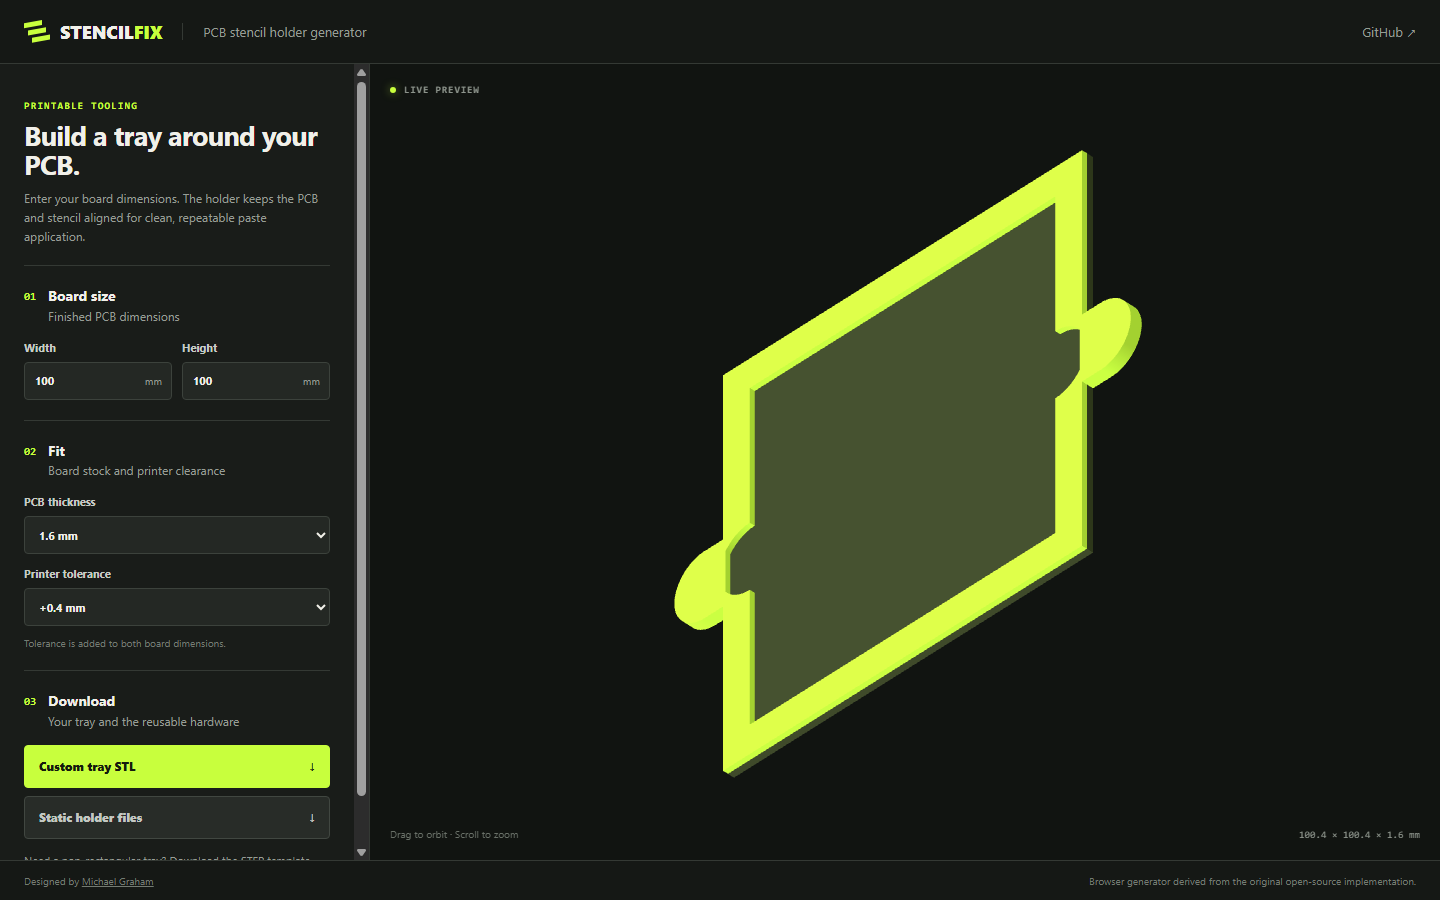
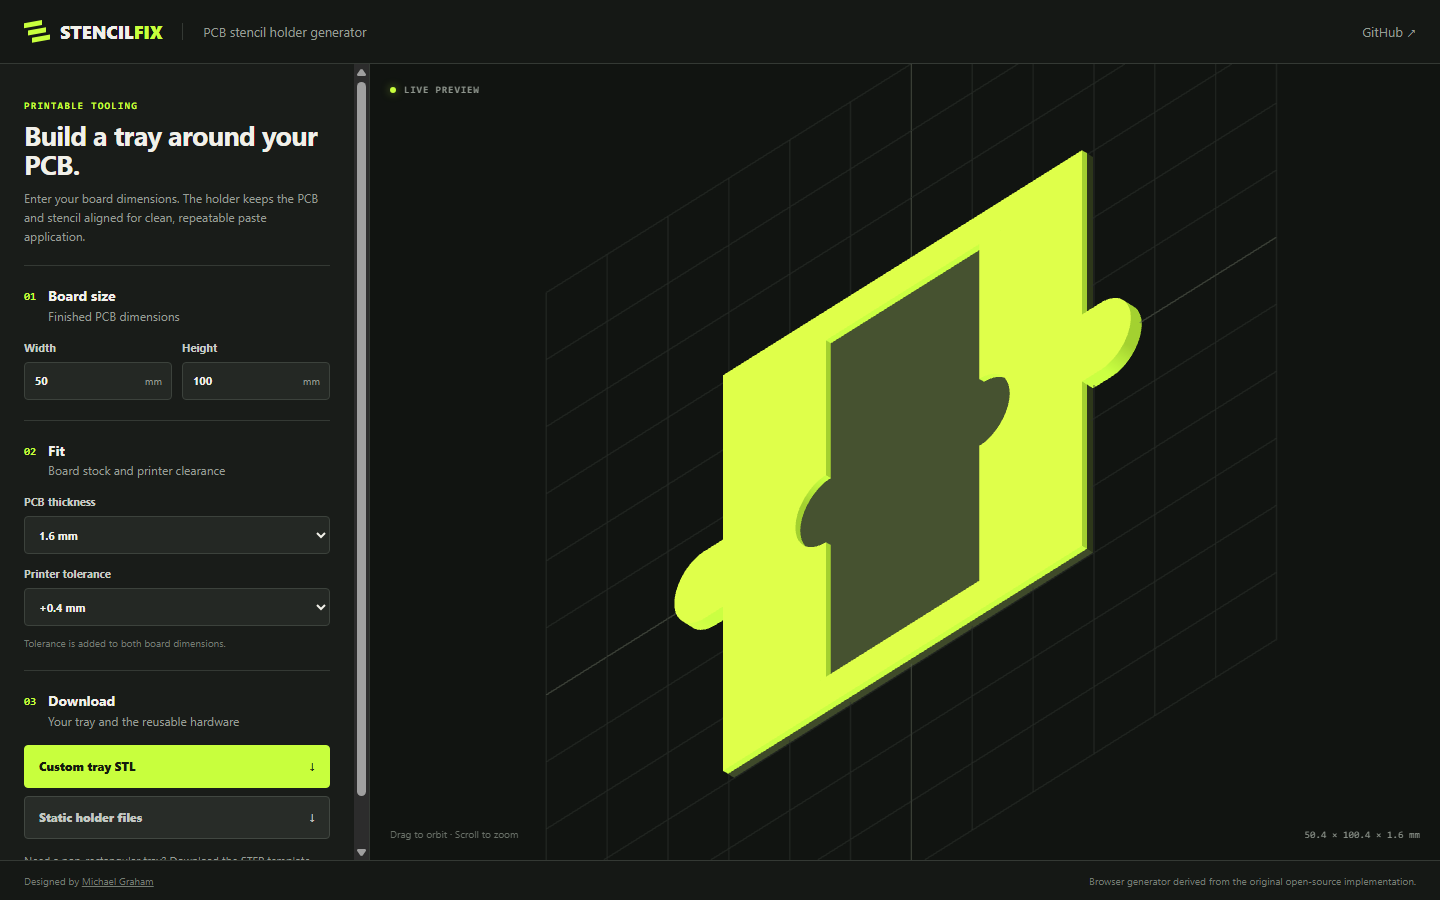
feature additions

Changed region(s): [[0.5, 0.3733, 0.5938, 0.8089], [0.6562, 0.2178, 0.75, 0.6533]]

diff --git a/index.html b/index.html
@@ -39,7 +39,7 @@
         <section>
           <div class="section-heading"><span class="step">01</span><div><h2>Board size</h2><p>Finished PCB dimensions</p></div></div>
           <div class="field-grid">
-            <label><span>Width</span><span class="number-wrap"><input type="number" id="width" min="5" max="100" step="0.1" value="100" required><small>mm</small></span></label>
+            <label><span>Width</span><span class="number-wrap"><input type="number" id="width" min="5" max="100" step="0.1" value="50" required><small>mm</small></span></label>
             <label><span>Height</span><span class="number-wrap"><input type="number" id="height" min="5" max="100" step="0.1" value="100" required><small>mm</small></span></label>
           </div>
         </section>
@@ -61,7 +61,7 @@
     <section class="viewer-shell" id="canvas-container" aria-label="3D tray preview">
       <canvas id="myCanvas"></canvas>
       <div class="viewer-label"><span class="status-dot"></span>LIVE PREVIEW</div>
-      <div class="model-size" id="model-size">100.4 × 100.4 × 1.6 mm</div>
+      <div class="model-size" id="model-size">50.4 × 100.4 × 1.6 mm</div>
       <div class="viewer-help">Drag to orbit · Scroll to zoom</div>
       <div class="viewer-error" id="viewer-error" role="alert"></div>
     </section>

diff --git a/3d.js b/3d.js
@@ -47,6 +47,14 @@ function init() {
     keyLight.position.set(-80, -100, 160);
     scene.add(keyLight);
 
+    // A loose build-plane grid gives the model scale and orientation in space.
+    const grid = new THREE.GridHelper(240, 12, 0x596052, 0x2b302b);
+    grid.rotation.x = Math.PI / 2;
+    grid.position.z = -2.1;
+    grid.material.transparent = true;
+    grid.material.opacity = 0.55;
+    scene.add(grid);
+
     createCubes();
 
     // Load the STL file into the scene

diff --git a/README.md b/README.md
@@ -38,3 +38,13 @@ In the repository settings, select **Pages → Deploy from a branch**, then choo
 ## License
 
 Released under the [MIT License](LICENSE).
+
+## What it makes
+
+The generator creates the PCB-sized center tray used with the printable hinge, frame, and feet from the original [Solder Stencil PCB Jig project on Thingiverse](https://www.thingiverse.com/thing:6313798).
+
+| Original printed jig | Browser tray generator |
+| --- | --- |
+| [![The assembled Solder Stencil PCB Jig holding a PCB and stencil](img/original-solder-stencil-jig.jpg)](https://www.thingiverse.com/thing:6313798) | [![The PCB Stencil Holder Generator interface](screenshot.png)](https://mechengineermike.github.io/SolderStencilPCBHolder/) |
+
+*Original project photo by Michael Graham, from [Thingiverse thing:6313798](https://www.thingiverse.com/thing:6313798).*
